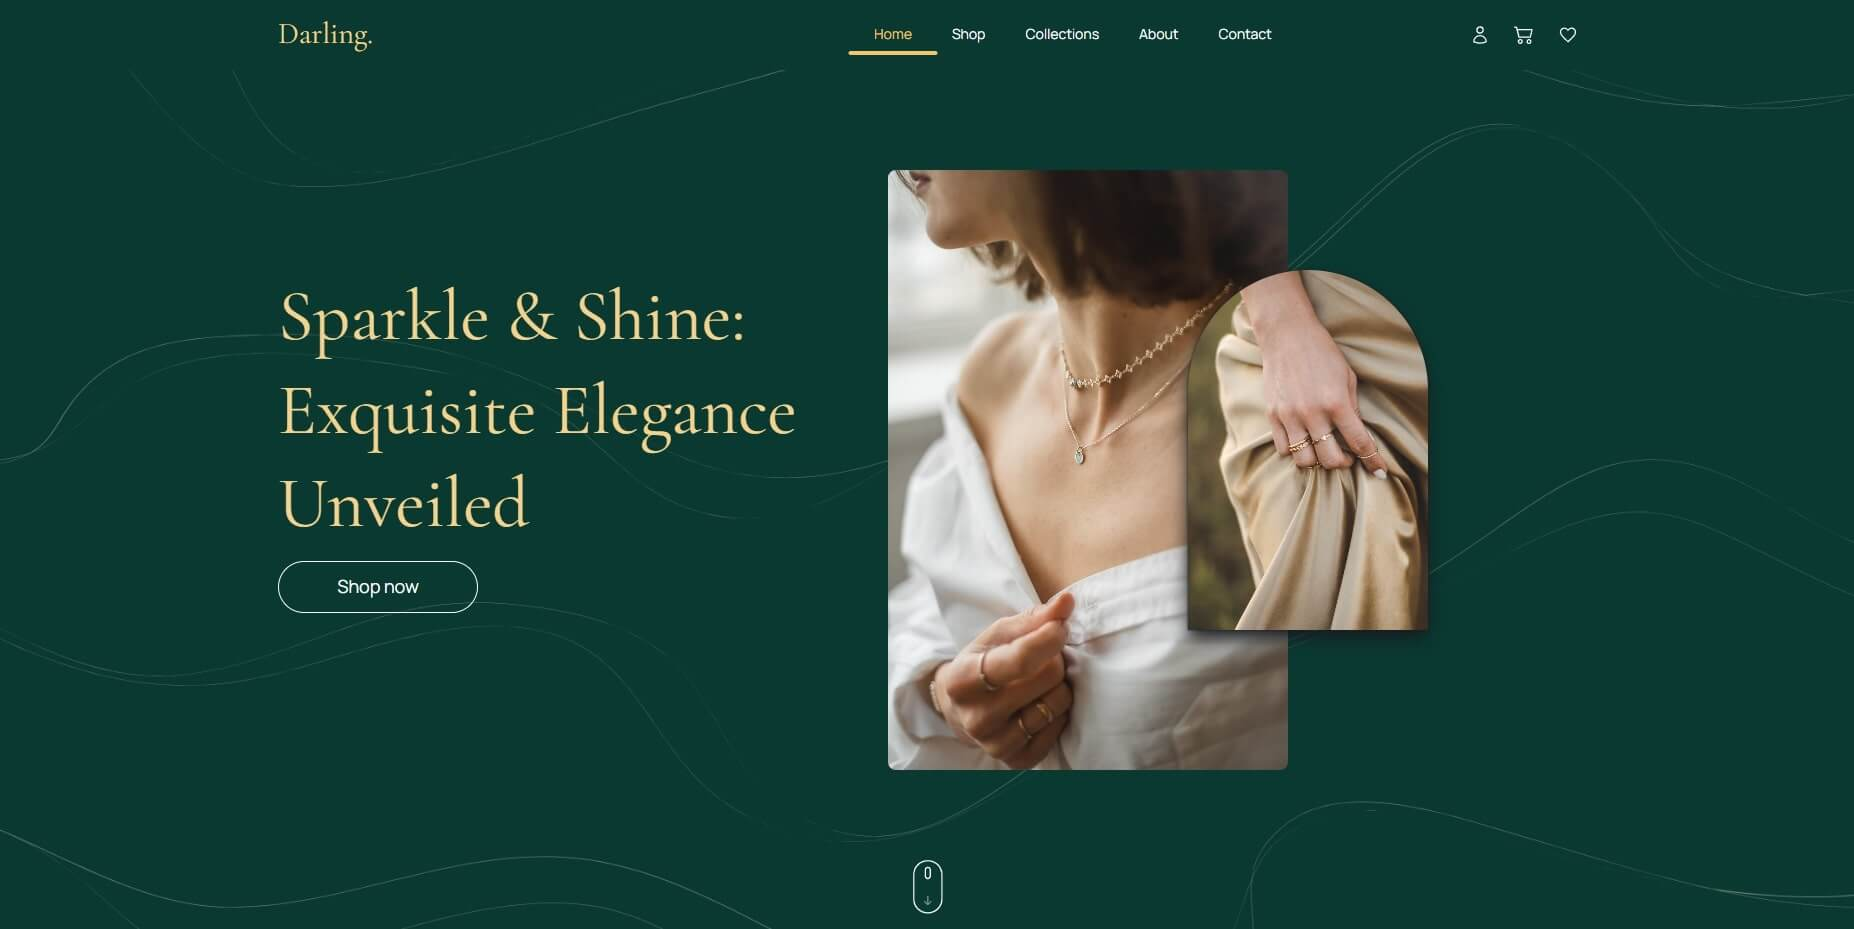
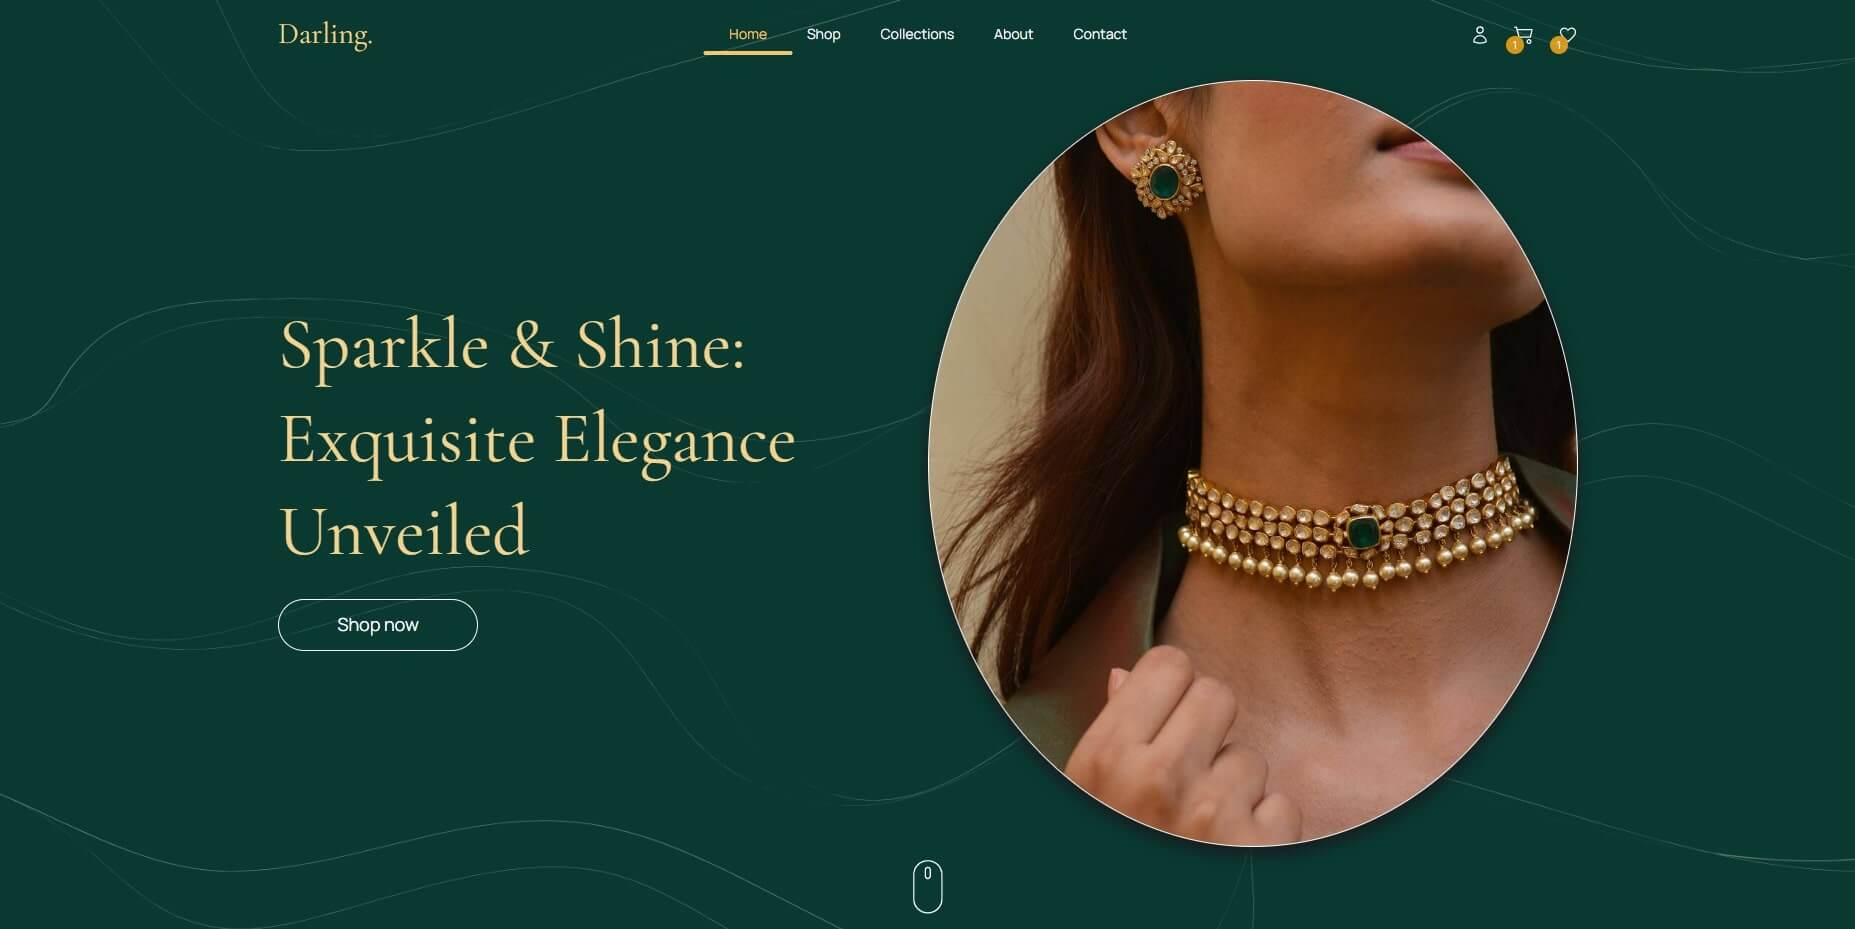
Changed Darling Delights's image and minor fix with date

diff --git a/src/components/Footer/index.tsx b/src/components/Footer/index.tsx
@@ -86,7 +86,7 @@ const Footer = () => {
           </li>
         </ul>
         <p className={scss.copyright}>
-          © 2024 Beniamin Brzeziński. All rights reserved.
+          © {new Date().getFullYear()} Beniamin Brzeziński. All rights reserved.
         </p>
       </div>
     </footer>
